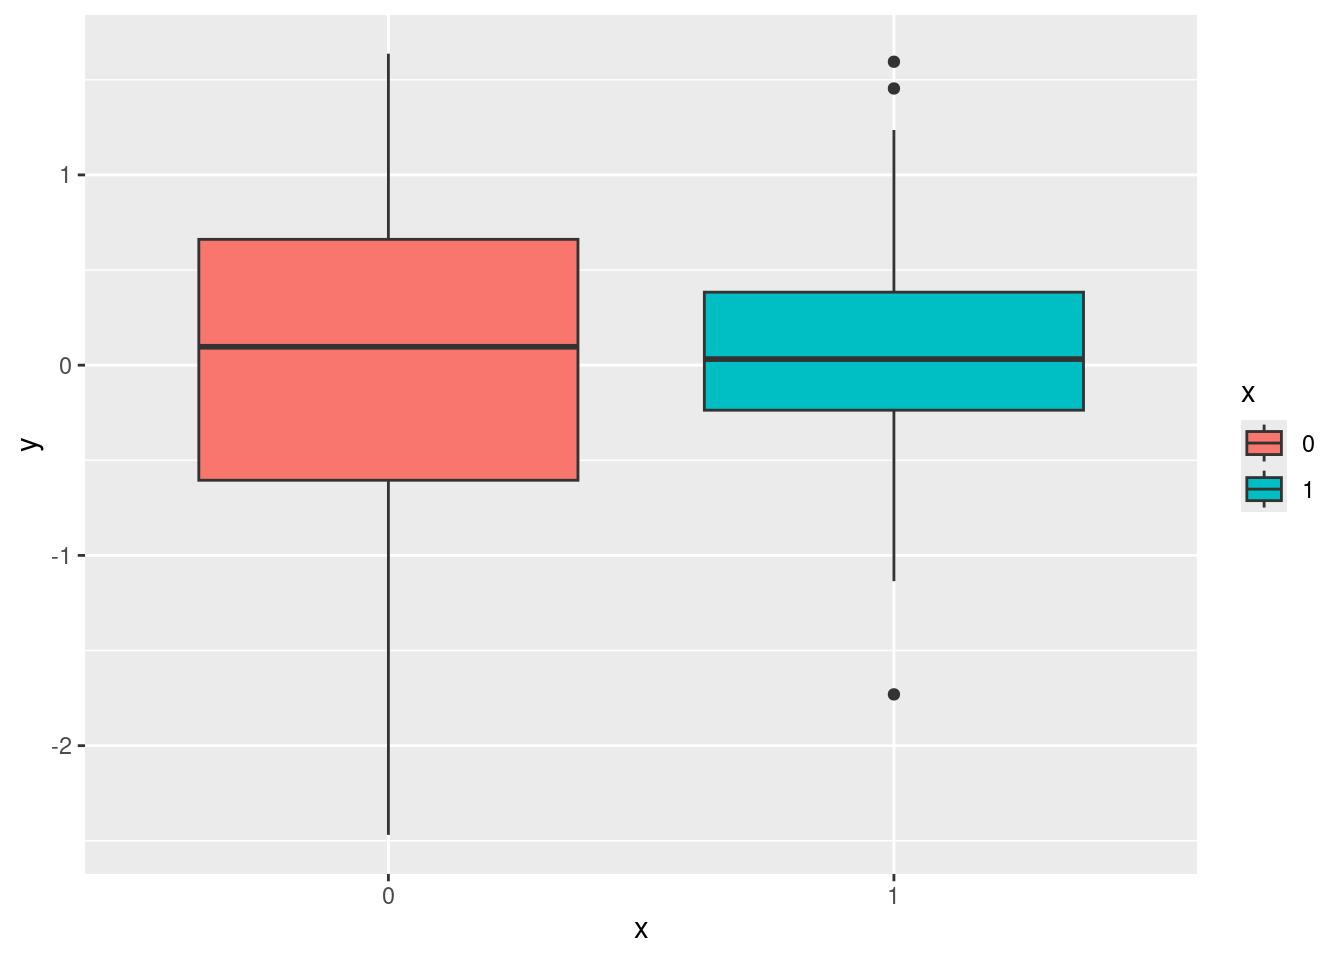
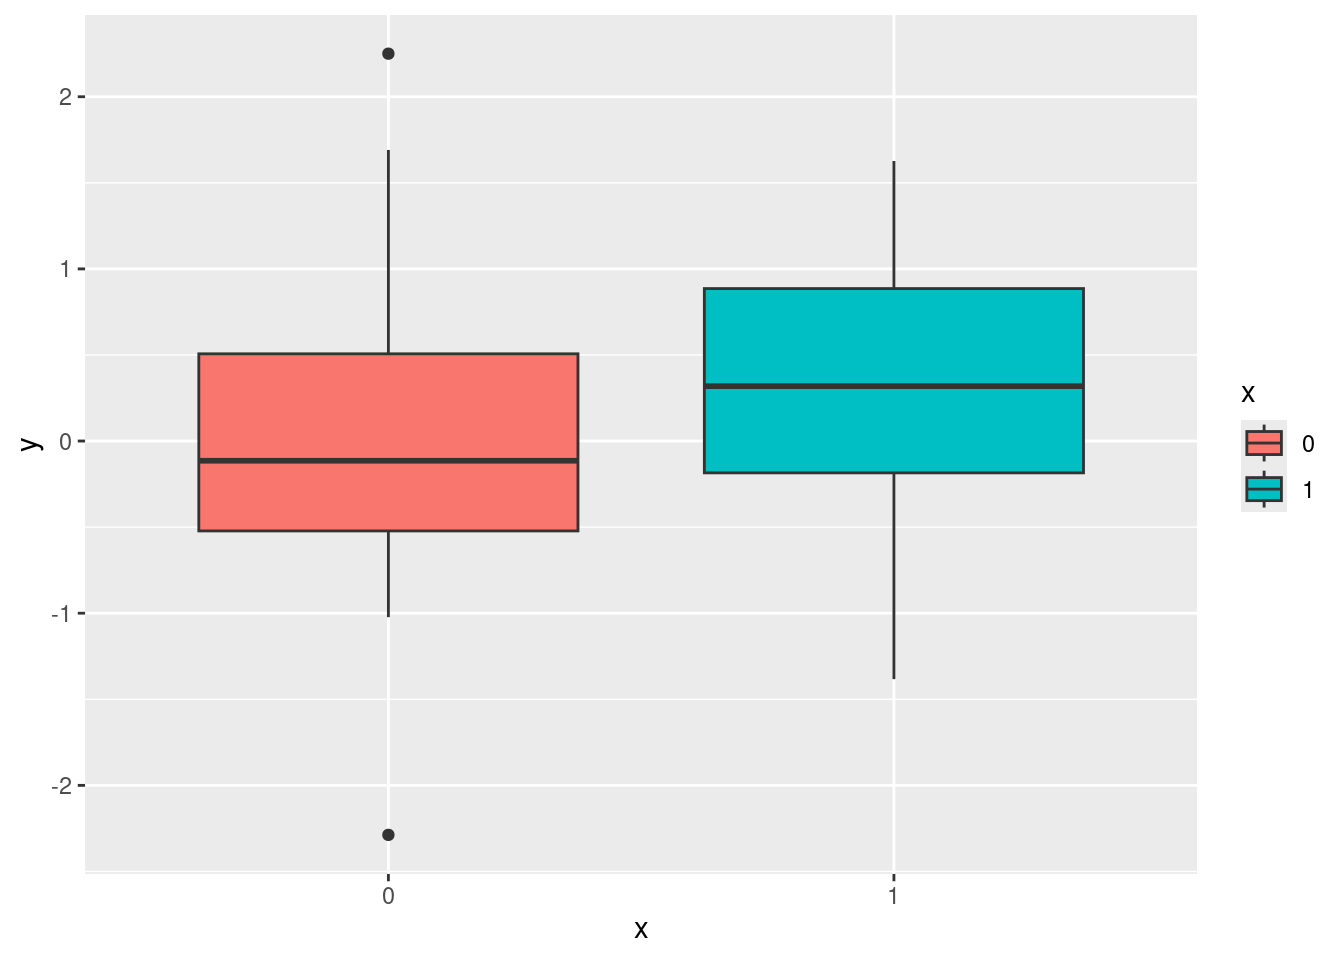
updating book

diff --git a/_book/chapters/chapter4.html b/_book/chapters/chapter4.html
@@ -382,9 +382,9 @@ propose some kind of classification/taxonomy here. for example:
 <span><span class="va">y1</span> <span class="op">&lt;-</span> <span class="fu"><a href="https://rdrr.io/r/stats/Normal.html">rnorm</a></span><span class="op">(</span><span class="va">n1</span>, <span class="va">es</span>, <span class="fl">1</span><span class="op">)</span></span>
 <span></span>
 <span><span class="fu"><a href="https://rdrr.io/r/base/mean.html">mean</a></span><span class="op">(</span><span class="va">y1</span><span class="op">)</span> <span class="op">-</span> <span class="fu"><a href="https://rdrr.io/r/base/mean.html">mean</a></span><span class="op">(</span><span class="va">y0</span><span class="op">)</span> <span class="co"># this is the effect size</span></span>
-<span><span class="co">## [1] 0.07187953</span></span>
+<span><span class="co">## [1] 0.2991042</span></span>
 <span><span class="fu"><a href="https://rdrr.io/r/stats/cor.html">var</a></span><span class="op">(</span><span class="va">y1</span><span class="op">)</span><span class="op">/</span><span class="va">n1</span> <span class="op">+</span> <span class="fu"><a href="https://rdrr.io/r/stats/cor.html">var</a></span><span class="op">(</span><span class="va">y0</span><span class="op">)</span><span class="op">/</span><span class="va">n0</span> <span class="co"># this is the sampling variability</span></span>
-<span><span class="co">## [1] 0.04667782</span></span></code><button title="Copy to Clipboard" class="code-copy-button"><i class="bi"></i></button></pre></div>
+<span><span class="co">## [1] 0.04726628</span></span></code><button title="Copy to Clipboard" class="code-copy-button"><i class="bi"></i></button></pre></div>
 </div>
 <div class="cell">
 <div class="cell-output-display">
@@ -414,17 +414,17 @@ propose some kind of classification/taxonomy here. for example:
 <span><span class="va">sim</span> <span class="op">&lt;-</span> <span class="fu"><a href="https://rdrr.io/r/base/data.frame.html">data.frame</a></span><span class="op">(</span>id <span class="op">=</span> <span class="fl">1</span><span class="op">:</span><span class="va">k</span>, <span class="va">yi</span>, <span class="va">vi</span>, <span class="va">n0</span>, <span class="va">n1</span><span class="op">)</span></span>
 <span><span class="va">sim</span></span></code><button title="Copy to Clipboard" class="code-copy-button"><i class="bi"></i></button></pre></div>
 <div class="cell-output cell-output-stdout">
-<pre><code>   id          yi         vi n0 n1
-1   1  0.12504957 0.04085890 41 41
-2   2  0.93968494 0.03897899 40 40
-3   3  0.69795739 0.06190118 38 38
-4   4 -0.05554614 0.05375940 41 41
-5   5  0.89726094 0.04977894 40 40
-6   6  0.38574076 0.06906077 32 32
-7   7  0.30923037 0.04462263 40 40
-8   8  0.81812822 0.03313112 48 48
-9   9  0.45300850 0.04411037 45 45
-10 10  0.78499783 0.04277632 47 47</code></pre>
+<pre><code>   id         yi         vi n0 n1
+1   1  0.3541489 0.04524385 42 42
+2   2 -0.2159358 0.04543703 36 36
+3   3 -0.3043771 0.07522434 31 31
+4   4  0.1643825 0.05057840 49 49
+5   5  0.1637866 0.04775627 41 41
+6   6  0.2407582 0.04904178 37 37
+7   7  0.2331997 0.06963392 32 32
+8   8  0.3639188 0.04768582 41 41
+9   9  0.3768103 0.04735584 38 38
+10 10  1.6258026 0.06684749 31 31</code></pre>
 </div>
 </div>
 <p>Then we can put everything in a function that can be used to simulate different scenarios.</p>
@@ -432,17 +432,17 @@ propose some kind of classification/taxonomy here. for example:
 <div class="sourceCode" id="cb5"><pre class="downlit sourceCode r code-with-copy"><code class="sourceCode R"></code><button title="Copy to Clipboard" class="code-copy-button"><i class="bi"></i></button></pre></div>
 <div class="cell">
 <div class="cell-output cell-output-stdout">
-<pre><code>   id          yi         vi       sei n0 n1
-1   1 -0.06768212 0.08276623 0.2876912 30 30
-2   2  1.14207482 0.04302261 0.2074189 30 30
-3   3  0.72321556 0.07073640 0.2659632 30 30
-4   4  0.74955842 0.06039368 0.2457512 30 30
-5   5  0.56957611 0.07628899 0.2762046 30 30
-6   6 -0.15101320 0.06853325 0.2617886 30 30
-7   7  1.05360793 0.06282680 0.2506528 30 30
-8   8  0.62915613 0.07977069 0.2824371 30 30
-9   9  0.35942057 0.08297324 0.2880508 30 30
-10 10  0.69714960 0.07586746 0.2754405 30 30</code></pre>
+<pre><code>   id        yi         vi       sei n0 n1
+1   1 0.5183628 0.07863339 0.2804165 30 30
+2   2 0.3125041 0.08630042 0.2937693 30 30
+3   3 0.2540806 0.09597474 0.3097979 30 30
+4   4 0.3634318 0.07945952 0.2818857 30 30
+5   5 0.3019830 0.05883533 0.2425599 30 30
+6   6 0.5871699 0.06243438 0.2498687 30 30
+7   7 0.7685596 0.06406198 0.2531047 30 30
+8   8 0.7646013 0.07679016 0.2771104 30 30
+9   9 0.4414079 0.05630575 0.2372883 30 30
+10 10 0.3370338 0.08427895 0.2903084 30 30</code></pre>
 </div>
 </div>
 </section><section id="vote-counting-based-on-significance-or-direction" class="level2" data-number="4.5"><h2 data-number="4.5" class="anchored" data-anchor-id="vote-counting-based-on-significance-or-direction">
@@ -491,27 +491,27 @@ propose some kind of classification/taxonomy here. for example:
 <span></span>
 <span><span class="fu"><a href="https://rdrr.io/r/utils/head.html">head</a></span><span class="op">(</span><span class="va">reps</span><span class="op">)</span></span></code><button title="Copy to Clipboard" class="code-copy-button"><i class="bi"></i></button></pre></div>
 <div class="cell-output cell-output-stdout">
-<pre><code>  id         yi         vi       sei n0 n1         zi        pval       ci.lb
-1  1  0.5943261 0.04278031 0.2068340 30 30  2.8734444 0.004060226  0.18893883
-2  2 -0.1114840 0.07193848 0.2682135 30 30 -0.4156539 0.677663264 -0.63717280
-3  3  0.4186209 0.06520742 0.2553574 30 30  1.6393527 0.101139826 -0.08187048
-4  4  0.7576611 0.06059939 0.2461694 30 30  3.0778031 0.002085327  0.27517783
-5  5  0.5798602 0.06305166 0.2511009 30 30  2.3092714 0.020928523  0.08771142
-6  6  0.1628634 0.05932456 0.2435663 30 30  0.6686613 0.503711535 -0.31451785
+<pre><code>  id        yi         vi       sei n0 n1        zi         pval      ci.lb
+1  1 1.1442208 0.06433630 0.2536460 30 30 4.5110935 6.449429e-06  0.6470838
+2  2 0.4827543 0.05135701 0.2266208 30 30 2.1302290 3.315271e-02  0.0385856
+3  3 0.7884178 0.05966032 0.2442546 30 30 3.2278521 1.247234e-03  0.3096875
+4  4 0.6509513 0.06024170 0.2454419 30 30 2.6521611 7.997837e-03  0.1698941
+5  5 0.2403349 0.05962286 0.2441779 30 30 0.9842615 3.249870e-01 -0.2382450
+6  6 0.4110838 0.07631474 0.2762512 30 30 1.4880796 1.367299e-01 -0.1303587
       ci.ub
-1 0.9997133
-2 0.4142048
-3 0.9191123
-4 1.2401443
-5 1.0720089
-6 0.6402446</code></pre>
+1 1.6413579
+2 0.9269230
+3 1.2671480
+4 1.1320085
+5 0.7189149
+6 0.9525263</code></pre>
 </div>
 </div>
 <p>Let’s compute the proportions of replication studies are statistically significant:</p>
 <div class="cell">
 <div class="sourceCode" id="cb11"><pre class="downlit sourceCode r code-with-copy"><code class="sourceCode R"><span><span class="fu"><a href="https://rdrr.io/r/base/mean.html">mean</a></span><span class="op">(</span><span class="va">reps</span><span class="op">$</span><span class="va">pval</span> <span class="op">&lt;=</span> <span class="fl">0.05</span><span class="op">)</span></span></code><button title="Copy to Clipboard" class="code-copy-button"><i class="bi"></i></button></pre></div>
 <div class="cell-output cell-output-stdout">
-<pre><code>[1] 0.4</code></pre>
+<pre><code>[1] 0.7</code></pre>
 </div>
 </div>
 <p>Let’s compute the proportions of replication studies with the same sign as the original:</p>
